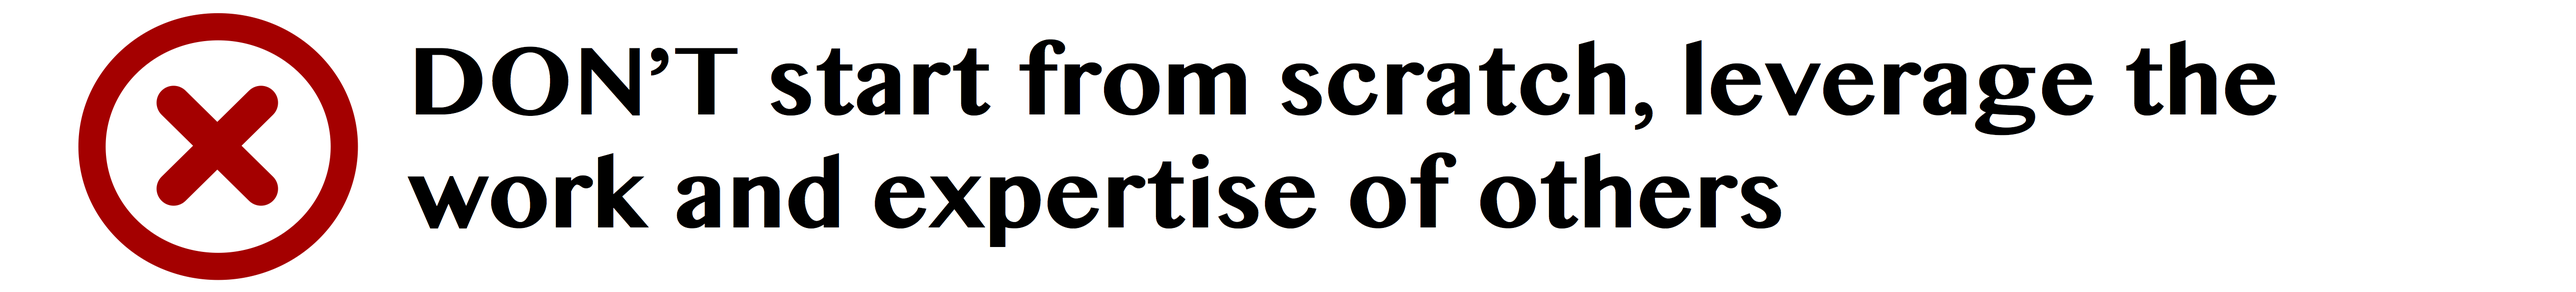
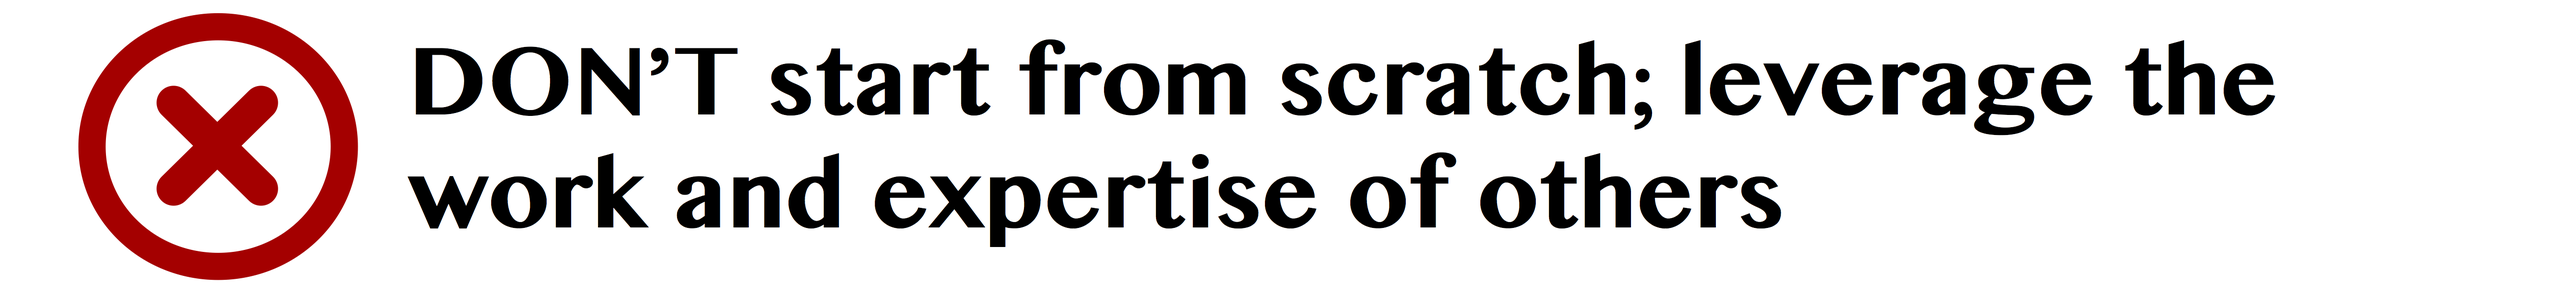
changing typos

Changed region(s): [[0.6248, 0.2111, 0.8122, 0.392], [0.8434, 0.2412, 0.8747, 0.392]]

diff --git a/docs/_posts/dos_donts/2016-05-17-dont_treat_equal.md b/docs/_posts/dos_donts/2016-05-17-dont_treat_equal.md
@@ -1,7 +1,7 @@
 ---
 layout: do_dont_coming_soon
 title:  Model Selection Guideline
-symbol: do
+symbol: dont
 dodont:  "DON’T treat all future climate change scenarios equally"
 ref: "DON'T treat equal" 
 date:   2016-04-01 16:54:46
